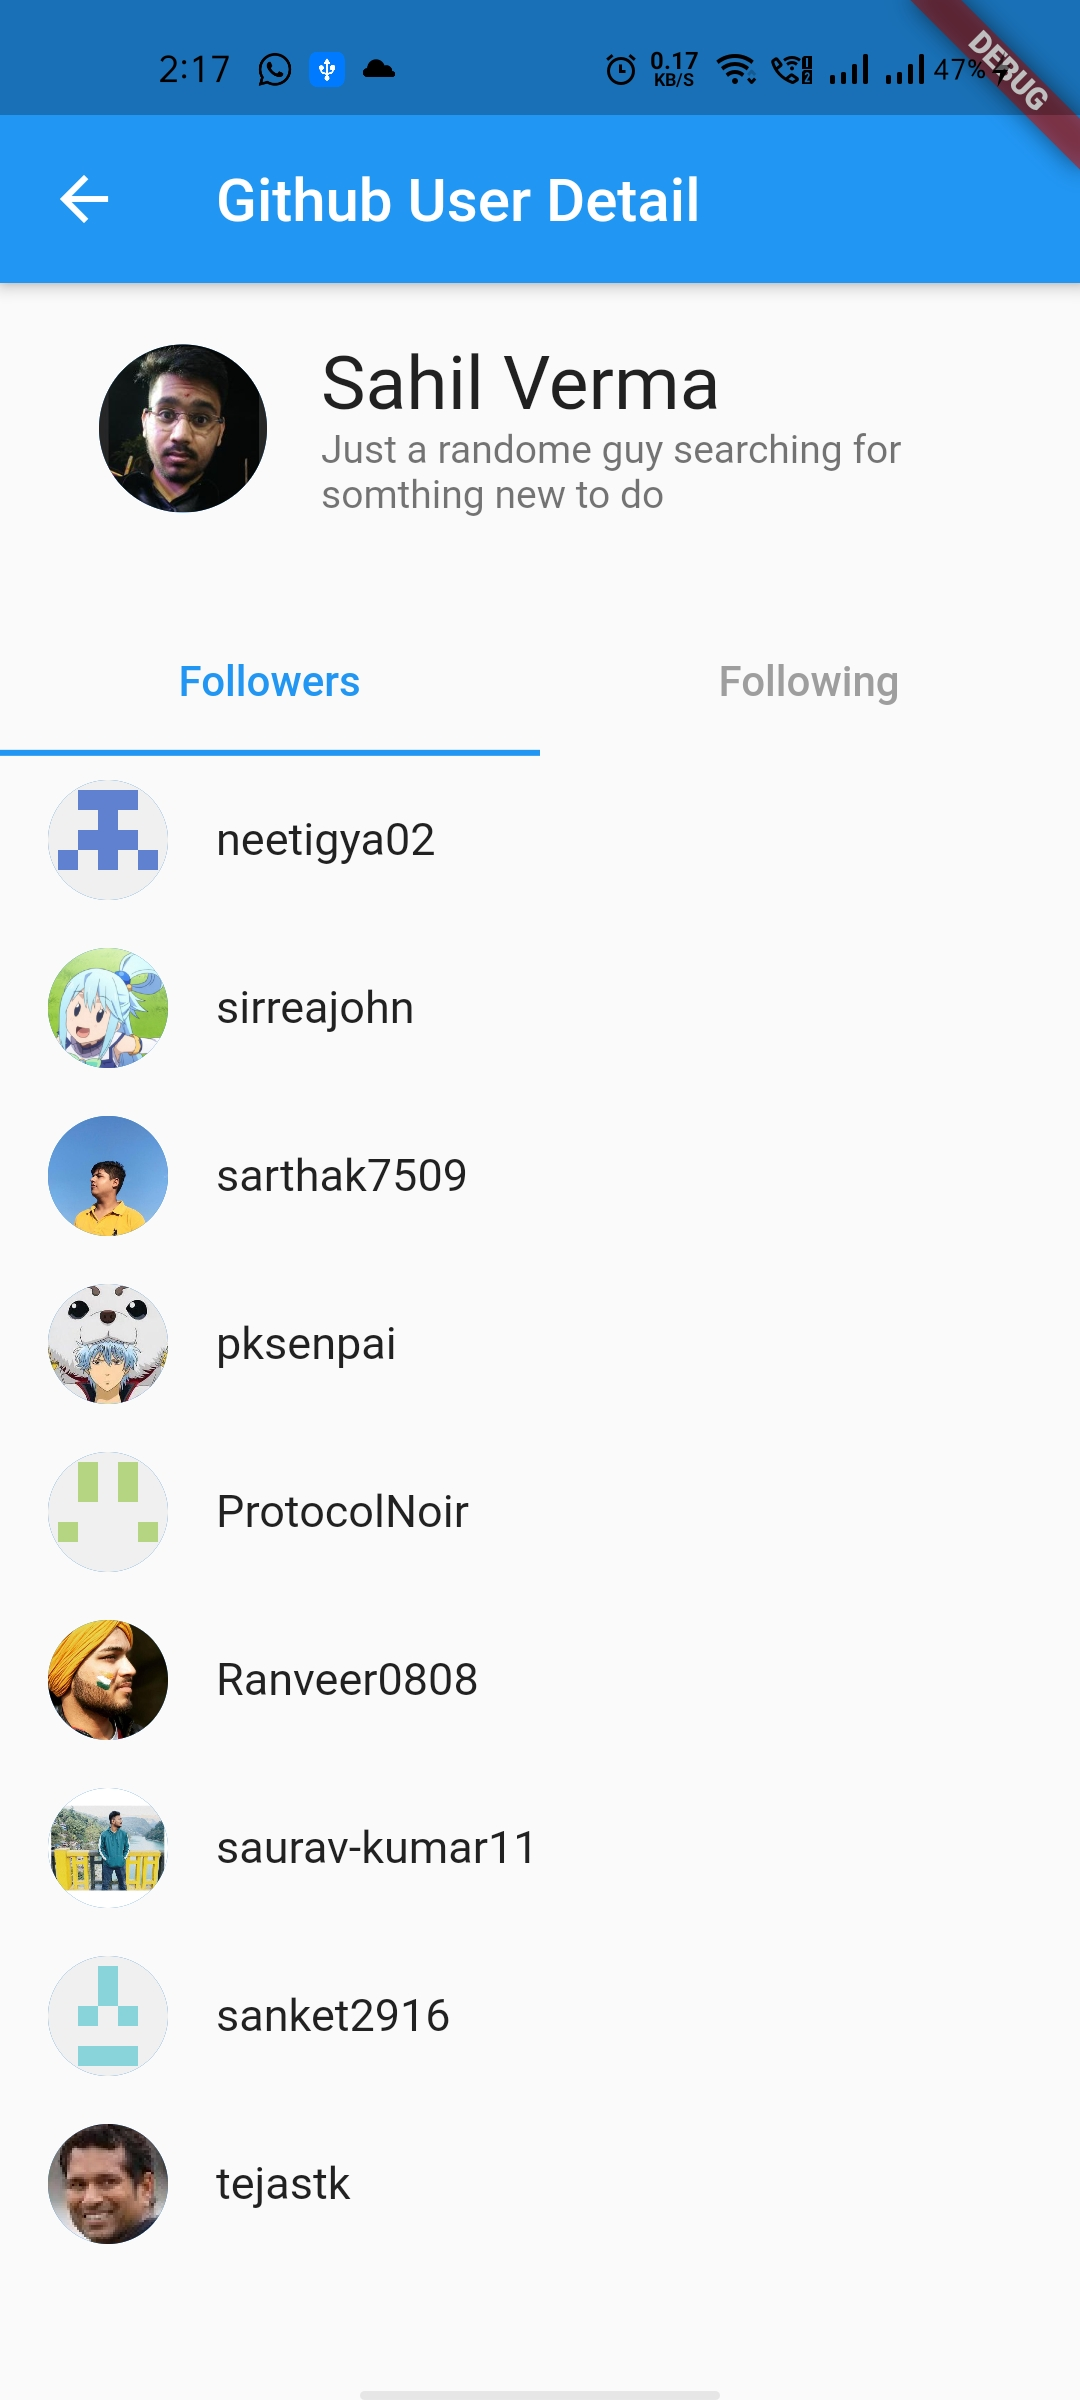
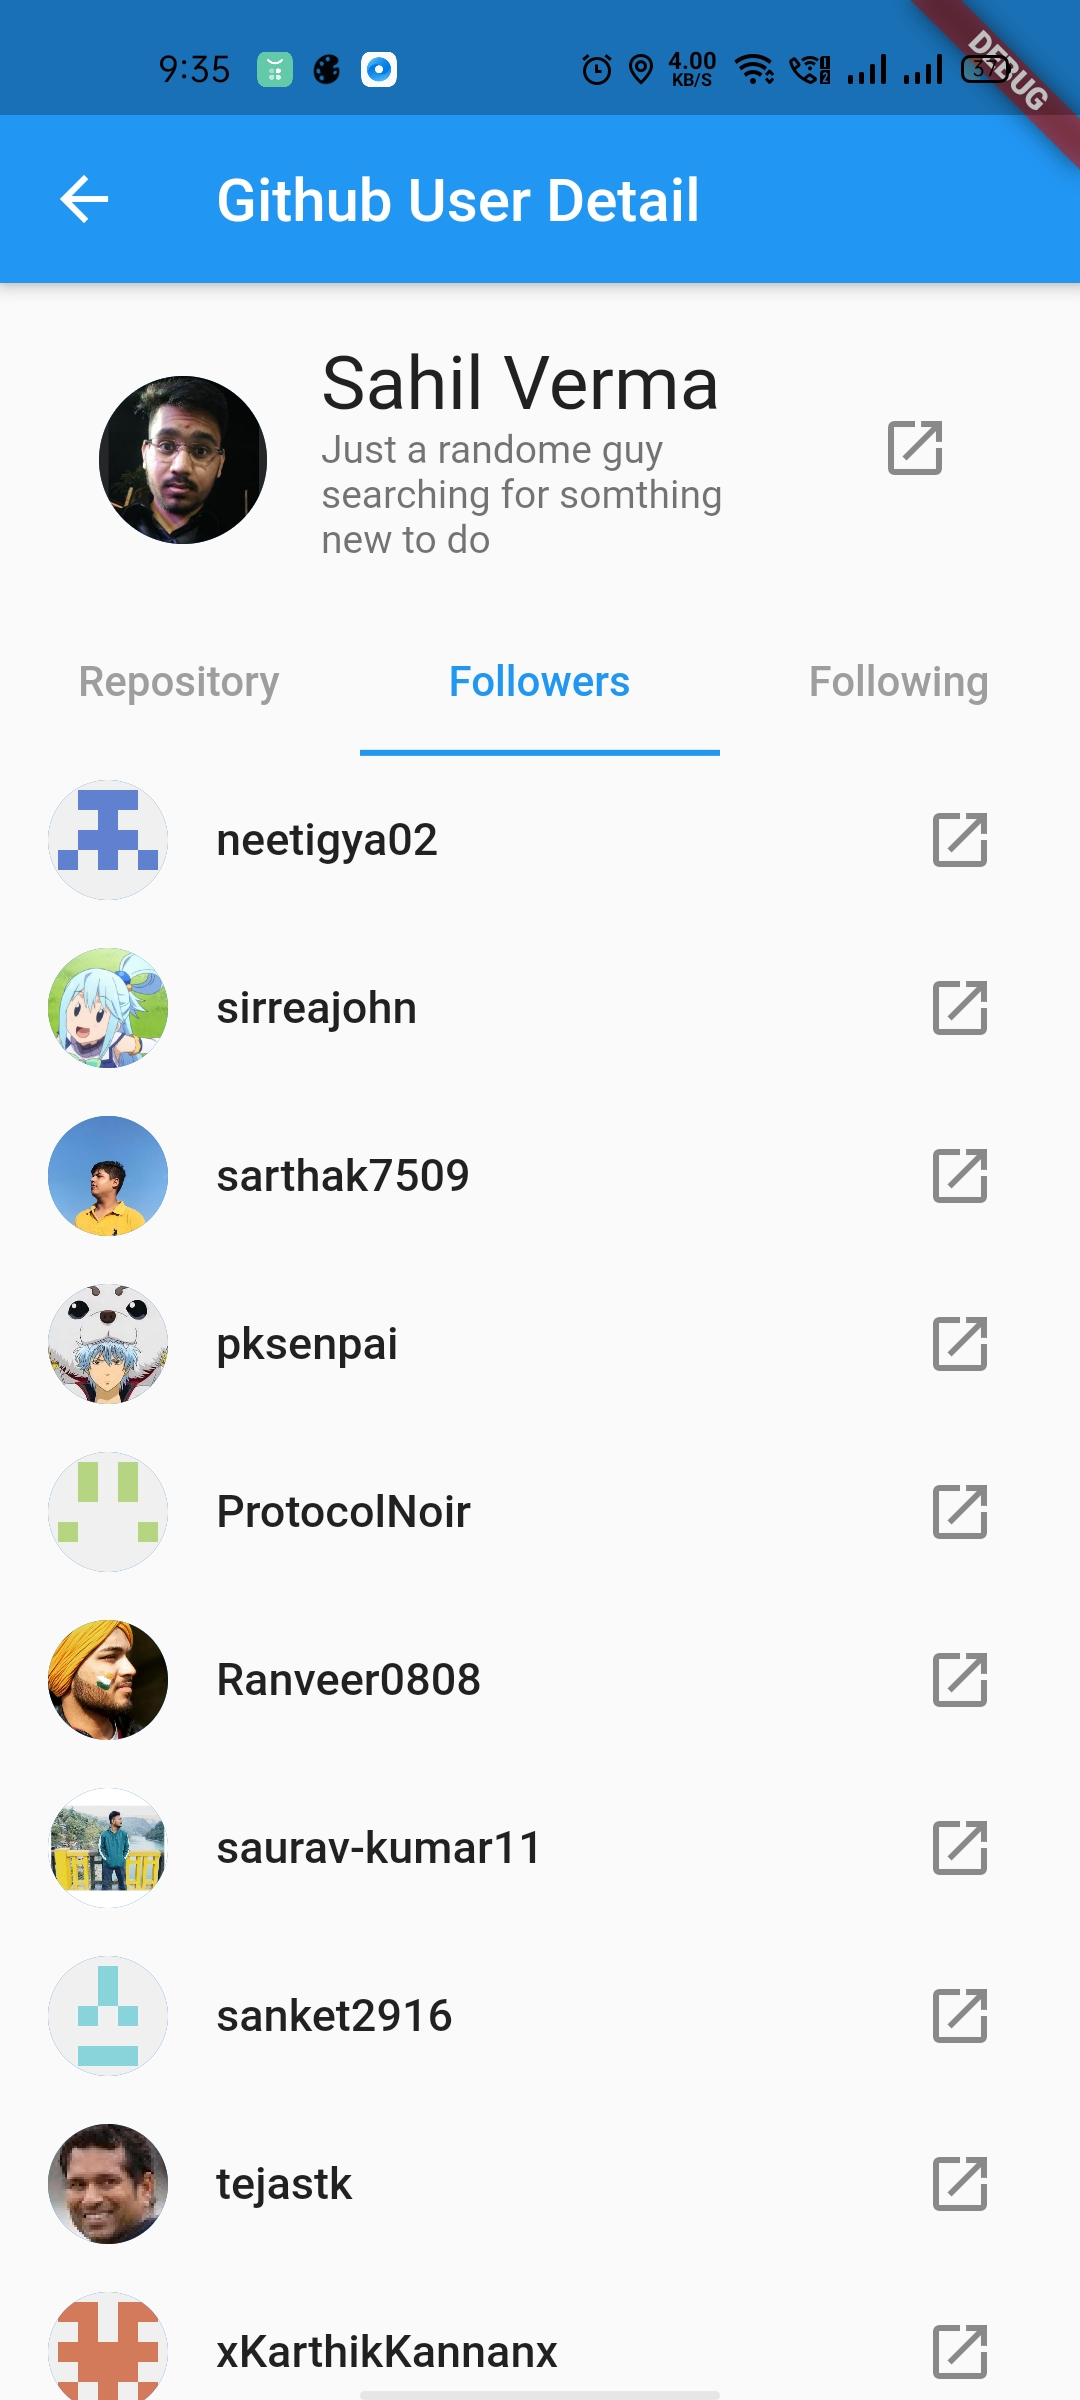
Added a repo tab and some clickable buttons to open profile and repositories on browser

diff --git a/lib/screens/display_screen.dart b/lib/screens/display_screen.dart
@@ -1,15 +1,22 @@
 import 'package:flutter/material.dart' ;
 import 'package:github_user_detail_flutter/module/github_user.dart';
 import 'package:github_user_detail_flutter/module/user_data.dart';
+import 'package:github_user_detail_flutter/widgets/repo_list_viewer.dart';
 import 'package:modal_progress_hud/modal_progress_hud.dart';
+import 'package:url_launcher/url_launcher.dart';
 
 class DisplayScreen extends StatefulWidget {
 
   final User user ;
   final List<User> followersList ;
   final List<User> followingList ;
+  final List<Repository> repoList ;
 
-  DisplayScreen({@required this.user, @required this.followersList, @required this.followingList}) ;
+  DisplayScreen({
+    @required this.user,
+    @required this.followersList,
+    @required this.followingList,
+    @required this.repoList}) ;
 
   @override
   _DisplayScreenState createState() => _DisplayScreenState();
@@ -21,13 +28,19 @@ class _DisplayScreenState extends State<DisplayScreen> {
 
   Widget getFolList(List<User> folList) {
 
-    if(folList != null) {
+    if(folList != null && folList.isNotEmpty) {
 
       return ListView.builder(
           itemBuilder: (BuildContext context, index) {
             return ListTile(
               leading: CircleAvatar(backgroundImage: NetworkImage(folList[index].avatarUrl),),
-              title: Text(folList[index].userName, style: TextStyle(fontSize: 15),),
+              title: Text(folList[index].userName, style: TextStyle(fontSize: 15, fontWeight: FontWeight.w500),),
+              trailing: IconButton(
+                icon: Icon(Icons.open_in_new),
+                onPressed: () {
+                  UserData.openUserInBrowser(folList[index].userName, context);
+                },
+              ),
               onTap: () async {
                 setState(() {
                   showSpinner = true ;
@@ -35,6 +48,7 @@ class _DisplayScreenState extends State<DisplayScreen> {
                 User userToSearch = await UserData.getUserName(folList[index].userName);
                 List<User> userFollowersList = await UserData.getFollowerFollowingList(folList[index].userName, 'followers');
                 List<User> userFollowingList = await UserData.getFollowerFollowingList(folList[index].userName, 'following');
+                List<Repository> repositoryList = await UserData.getRepoList(folList[index].userName) ;
 
                 if (userToSearch != null) {
                   Navigator.push(
@@ -43,6 +57,7 @@ class _DisplayScreenState extends State<DisplayScreen> {
                         user: userToSearch,
                         followersList: userFollowersList,
                         followingList: userFollowingList,
+                        repoList: repositoryList,
                       ),
                   ),
                   );
@@ -68,7 +83,7 @@ class _DisplayScreenState extends State<DisplayScreen> {
   @override
   Widget build(BuildContext context) {
     return DefaultTabController(
-      length: 2,
+      length: 3,
       child: Scaffold(
         appBar: AppBar(
           title: Text('Github User Detail'),
@@ -89,6 +104,12 @@ class _DisplayScreenState extends State<DisplayScreen> {
                       ),
                       title: Text(widget.user.name, style: TextStyle(fontSize: 25),),
                       subtitle: Text(widget.user.bio, style: TextStyle(fontSize: 13),),
+                      trailing: IconButton(
+                        icon: Icon(Icons.open_in_new),
+                        onPressed: () {
+                          UserData.openUserInBrowser(widget.user.userName, context);
+                        },
+                      ),
                     ),
                   ),
                 ),
@@ -97,6 +118,7 @@ class _DisplayScreenState extends State<DisplayScreen> {
                 unselectedLabelColor: Colors.grey,
                 labelColor: Colors.blue,
                 tabs: [
+                  Tab(text: "Repository",),
                   Tab(text: "Followers",),
                   Tab(text: "Following",),
                 ],
@@ -105,6 +127,7 @@ class _DisplayScreenState extends State<DisplayScreen> {
                 flex: 5,
                   child: TabBarView(
                     children: [
+                      RepoListViewer(repositoryList: widget.repoList),
                       getFolList(widget.followersList),
                       getFolList(widget.followingList),
                     ],

diff --git a/lib/widgets/repo_list_viewer.dart b/lib/widgets/repo_list_viewer.dart
@@ -1,0 +1,49 @@
+import 'package:flutter/material.dart';
+import 'package:github_user_detail_flutter/module/github_user.dart';
+import 'package:github_user_detail_flutter/module/user_data.dart';
+
+class RepoListViewer extends StatelessWidget {
+
+  final List<Repository> repositoryList ;
+
+  RepoListViewer({@required this.repositoryList});
+
+  @override
+  Widget build(BuildContext context) {
+    return repositoryList != null && repositoryList.isNotEmpty ?
+    ListView.builder(
+            itemBuilder: (context, index) {
+              return ListTile(
+                title: Text(repositoryList[index].repoName, style: TextStyle(fontSize: 18, fontWeight: FontWeight.w500),),
+                subtitle: Column(
+                  mainAxisAlignment: MainAxisAlignment.center,
+                  children: [
+                    SizedBox(
+                      height: 3,
+                    ),
+                    Align(
+                      child: Text(
+                        repositoryList[index].description,
+                        style: TextStyle(fontSize: 15),
+                      ),
+                      alignment: Alignment.centerLeft,
+                    ),
+                    Align(
+                      child: Text(
+                        repositoryList[index].language,
+                        style: TextStyle(color: Colors.blue, fontWeight: FontWeight.bold, fontSize: 14),
+                      ),
+                      alignment: Alignment.centerRight,
+                    )
+                  ],
+                ),
+                onTap: () {
+                  UserData.launchURL(repositoryList[index].repoURL , context) ;
+                },
+              ) ;
+            },
+          itemCount: repositoryList.length,
+        )
+        : Container(child: Center(child: Text('No Repository', style: TextStyle(fontSize: 30)))) ;
+  }
+}

diff --git a/lib/module/user_data.dart b/lib/module/user_data.dart
@@ -1,6 +1,10 @@
+import 'dart:async';
 import 'dart:convert';
+import 'package:flutter/cupertino.dart';
+import 'package:flutter/material.dart';
 import 'package:github_user_detail_flutter/module/github_user.dart';
 import 'package:http/http.dart' as http ;
+import 'package:url_launcher/url_launcher.dart';
 
 class UserData {
 
@@ -51,6 +55,46 @@ class UserData {
       return folList ;
     } else {
       return null ;
+    }
+  }
+
+  static Future  getRepoList(String userName) async {
+
+    var repoListResponse = await getResponse(userName + '/repos') ;
+    if(repoListResponse != null) {
+
+      List<Repository> repoList = [] ;
+
+      for(var repo in repoListResponse) {
+
+        repoList.add(
+          new Repository(
+              repo['name'],
+              repo['description'] != null ? repo['description'] : 'NO description' ,
+              repo['language'] != null ? repo['language'] : 'Unknown',
+              repo['html_url']
+          )
+        ) ;
+      }
+      return repoList ;
+    } else {
+      return null ;
+    }
+  }
+
+  static void openUserInBrowser(String userName, BuildContext context) async {
+    const url = 'https://github.com/';
+    launchURL(url + userName, context) ;
+  }
+
+  static void launchURL(String url, BuildContext context) async {
+
+    if (await canLaunch(url)) {
+      await launch(url);
+    } else {
+      ScaffoldMessenger.of(context).showSnackBar(SnackBar(
+        content: Text("Can't access Github right now"),
+      ));
     }
   }
 }

diff --git a/lib/screens/search_screen.dart b/lib/screens/search_screen.dart
@@ -48,6 +48,7 @@ class _SearchScreenState extends State<SearchScreen> {
                       User userToSearch = await UserData.getUserName(userName);
                       List<User> userFollowersList = await UserData.getFollowerFollowingList(userName, 'followers') ;
                       List<User> userFollowingList = await UserData.getFollowerFollowingList(userName, 'following') ;
+                      List<Repository> repoList = await UserData.getRepoList(userName) ;
 
                       if(userToSearch != null) {
 
@@ -55,6 +56,7 @@ class _SearchScreenState extends State<SearchScreen> {
                             user: userToSearch,
                           followersList: userFollowersList,
                           followingList: userFollowingList,
+                          repoList: repoList,
                         )));
                       } else {
 

diff --git a/lib/module/github_user.dart b/lib/module/github_user.dart
@@ -20,3 +20,13 @@ class User {
     return 'Name = $_userName' ;
   }
 }
+
+class Repository {
+
+  String repoName ;
+  String description ;
+  String language ;
+  String repoURL ;
+
+  Repository(this.repoName, this.description, this.language, this.repoURL);
+}

diff --git a/README.md b/README.md
@@ -4,18 +4,27 @@ A pleasant looking flutter app to get details of a github user like name, bio, f
 
 ## Features:
 
+### First push:
 1. A simple and smooth interface which is pleasing to look at
 2. Good exception handling so your app doesn't crash when you need it the most
 3. This app provides you the the name, bio, followers and following list of the user you search for
 4. Every user card displayes in the following and followers list is clickable and will redirect you to that user's profile
 
-## ScreenShots:
-<img src ="images/search_screen.jpg" width = 360>  <img src ="images/followers.jpg" width = 360> <img src ="images/following.jpg" width = 360>
+### Updates 0.1:
+1. Now the app will also give you a list of the repositories of the user you searched for in the form of a ListView in which every tile is clickable and will lead you to the link of that repository in your browser
+2. In this new push i have added clickable icon beside every follower and following list tile which will lead the user to the github profie page of that user
+3. The icon button is also implemented for the user you searched for
 
+## ScreenShots:
+<img src ="images/search_screen.jpg" width = 360>  <img src ="images/followers.jpg" width = 360>
+<img src ="images/following.jpg" width = 360> <img src ="images/repo.jpg" width = 360>
 ## Packages Used :
 * **http** [http: ^0.12.2](https://pub.dev/packages/http)
 * **modal_progress_hud** [modal_progress_hud: ^0.1.3](https://pub.dev/packages/modal_progress_hud)
+* **url_launcher** [url_launcher: ^5.7.10](https://pub.dev/packages/url_launcher)
 
 ## API used :
 
 [GitHub APi](https://api.github.com/users/keima483) : https://api.github.com/users/keima483  (replace my username with your and you are ready to go)
+
+Special Thanks to [Sarthak Bhatnagar](https://github.com/sarthak7509) for acting as a tester for this app
